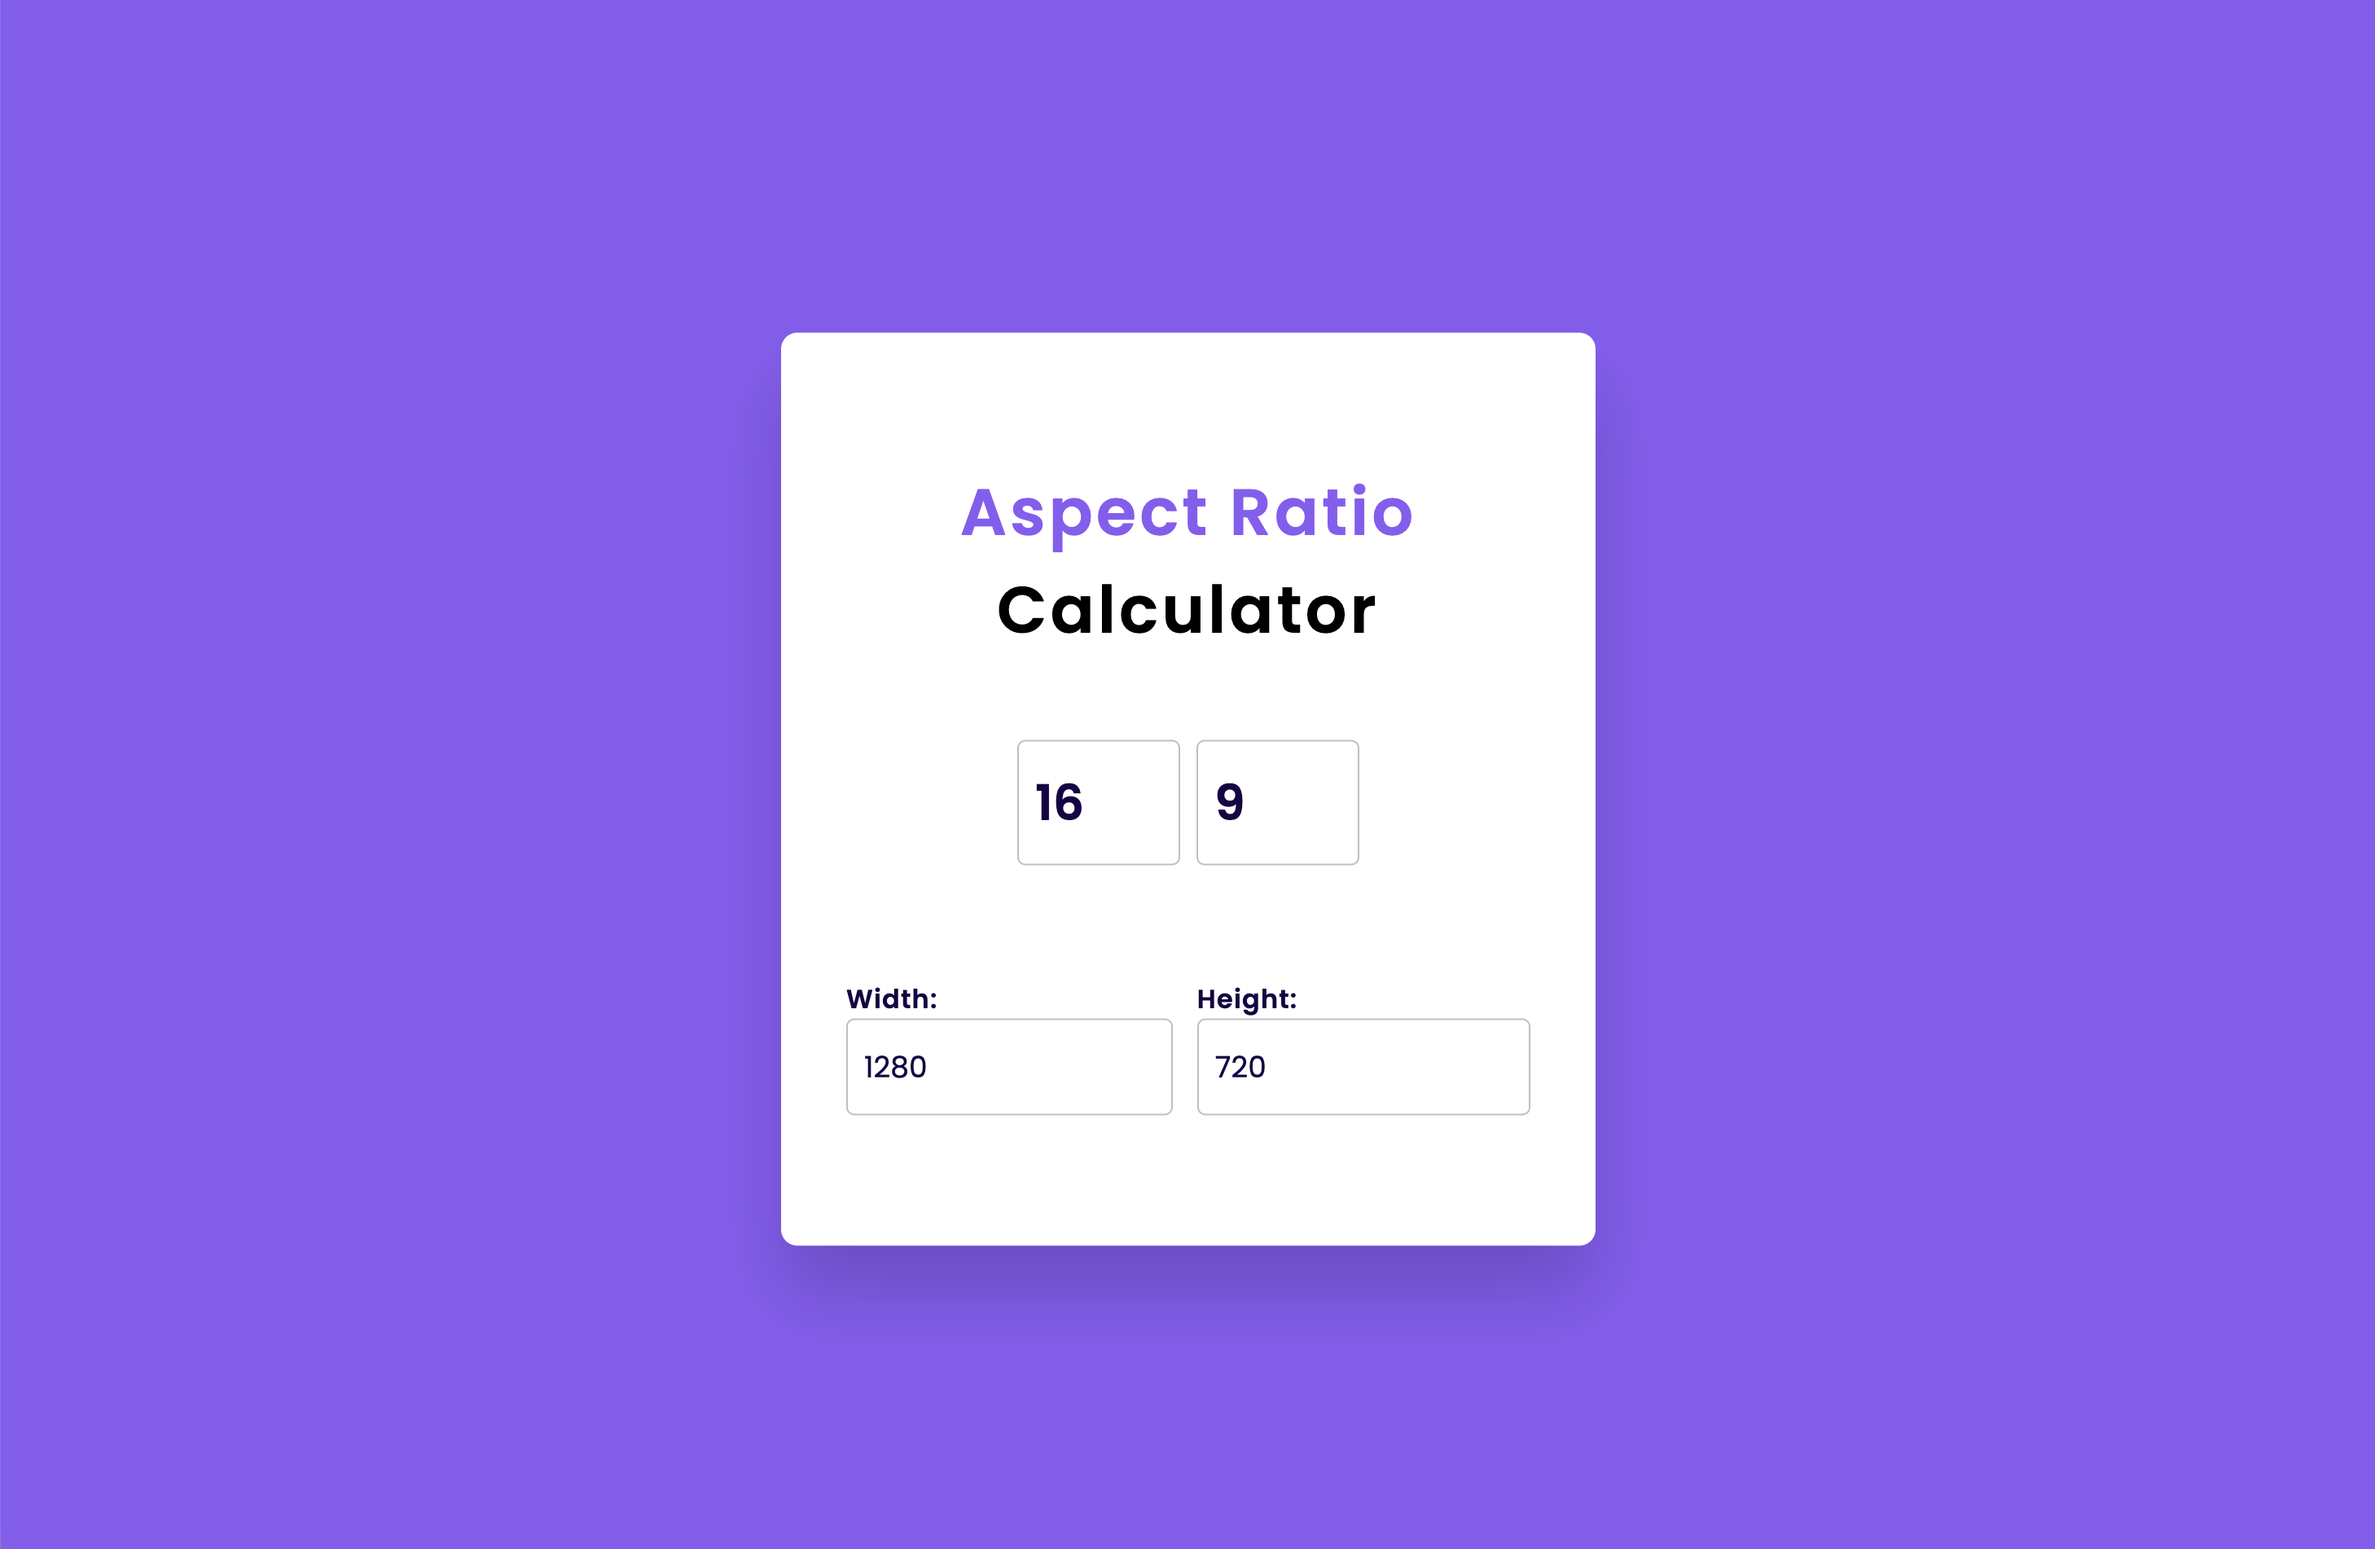
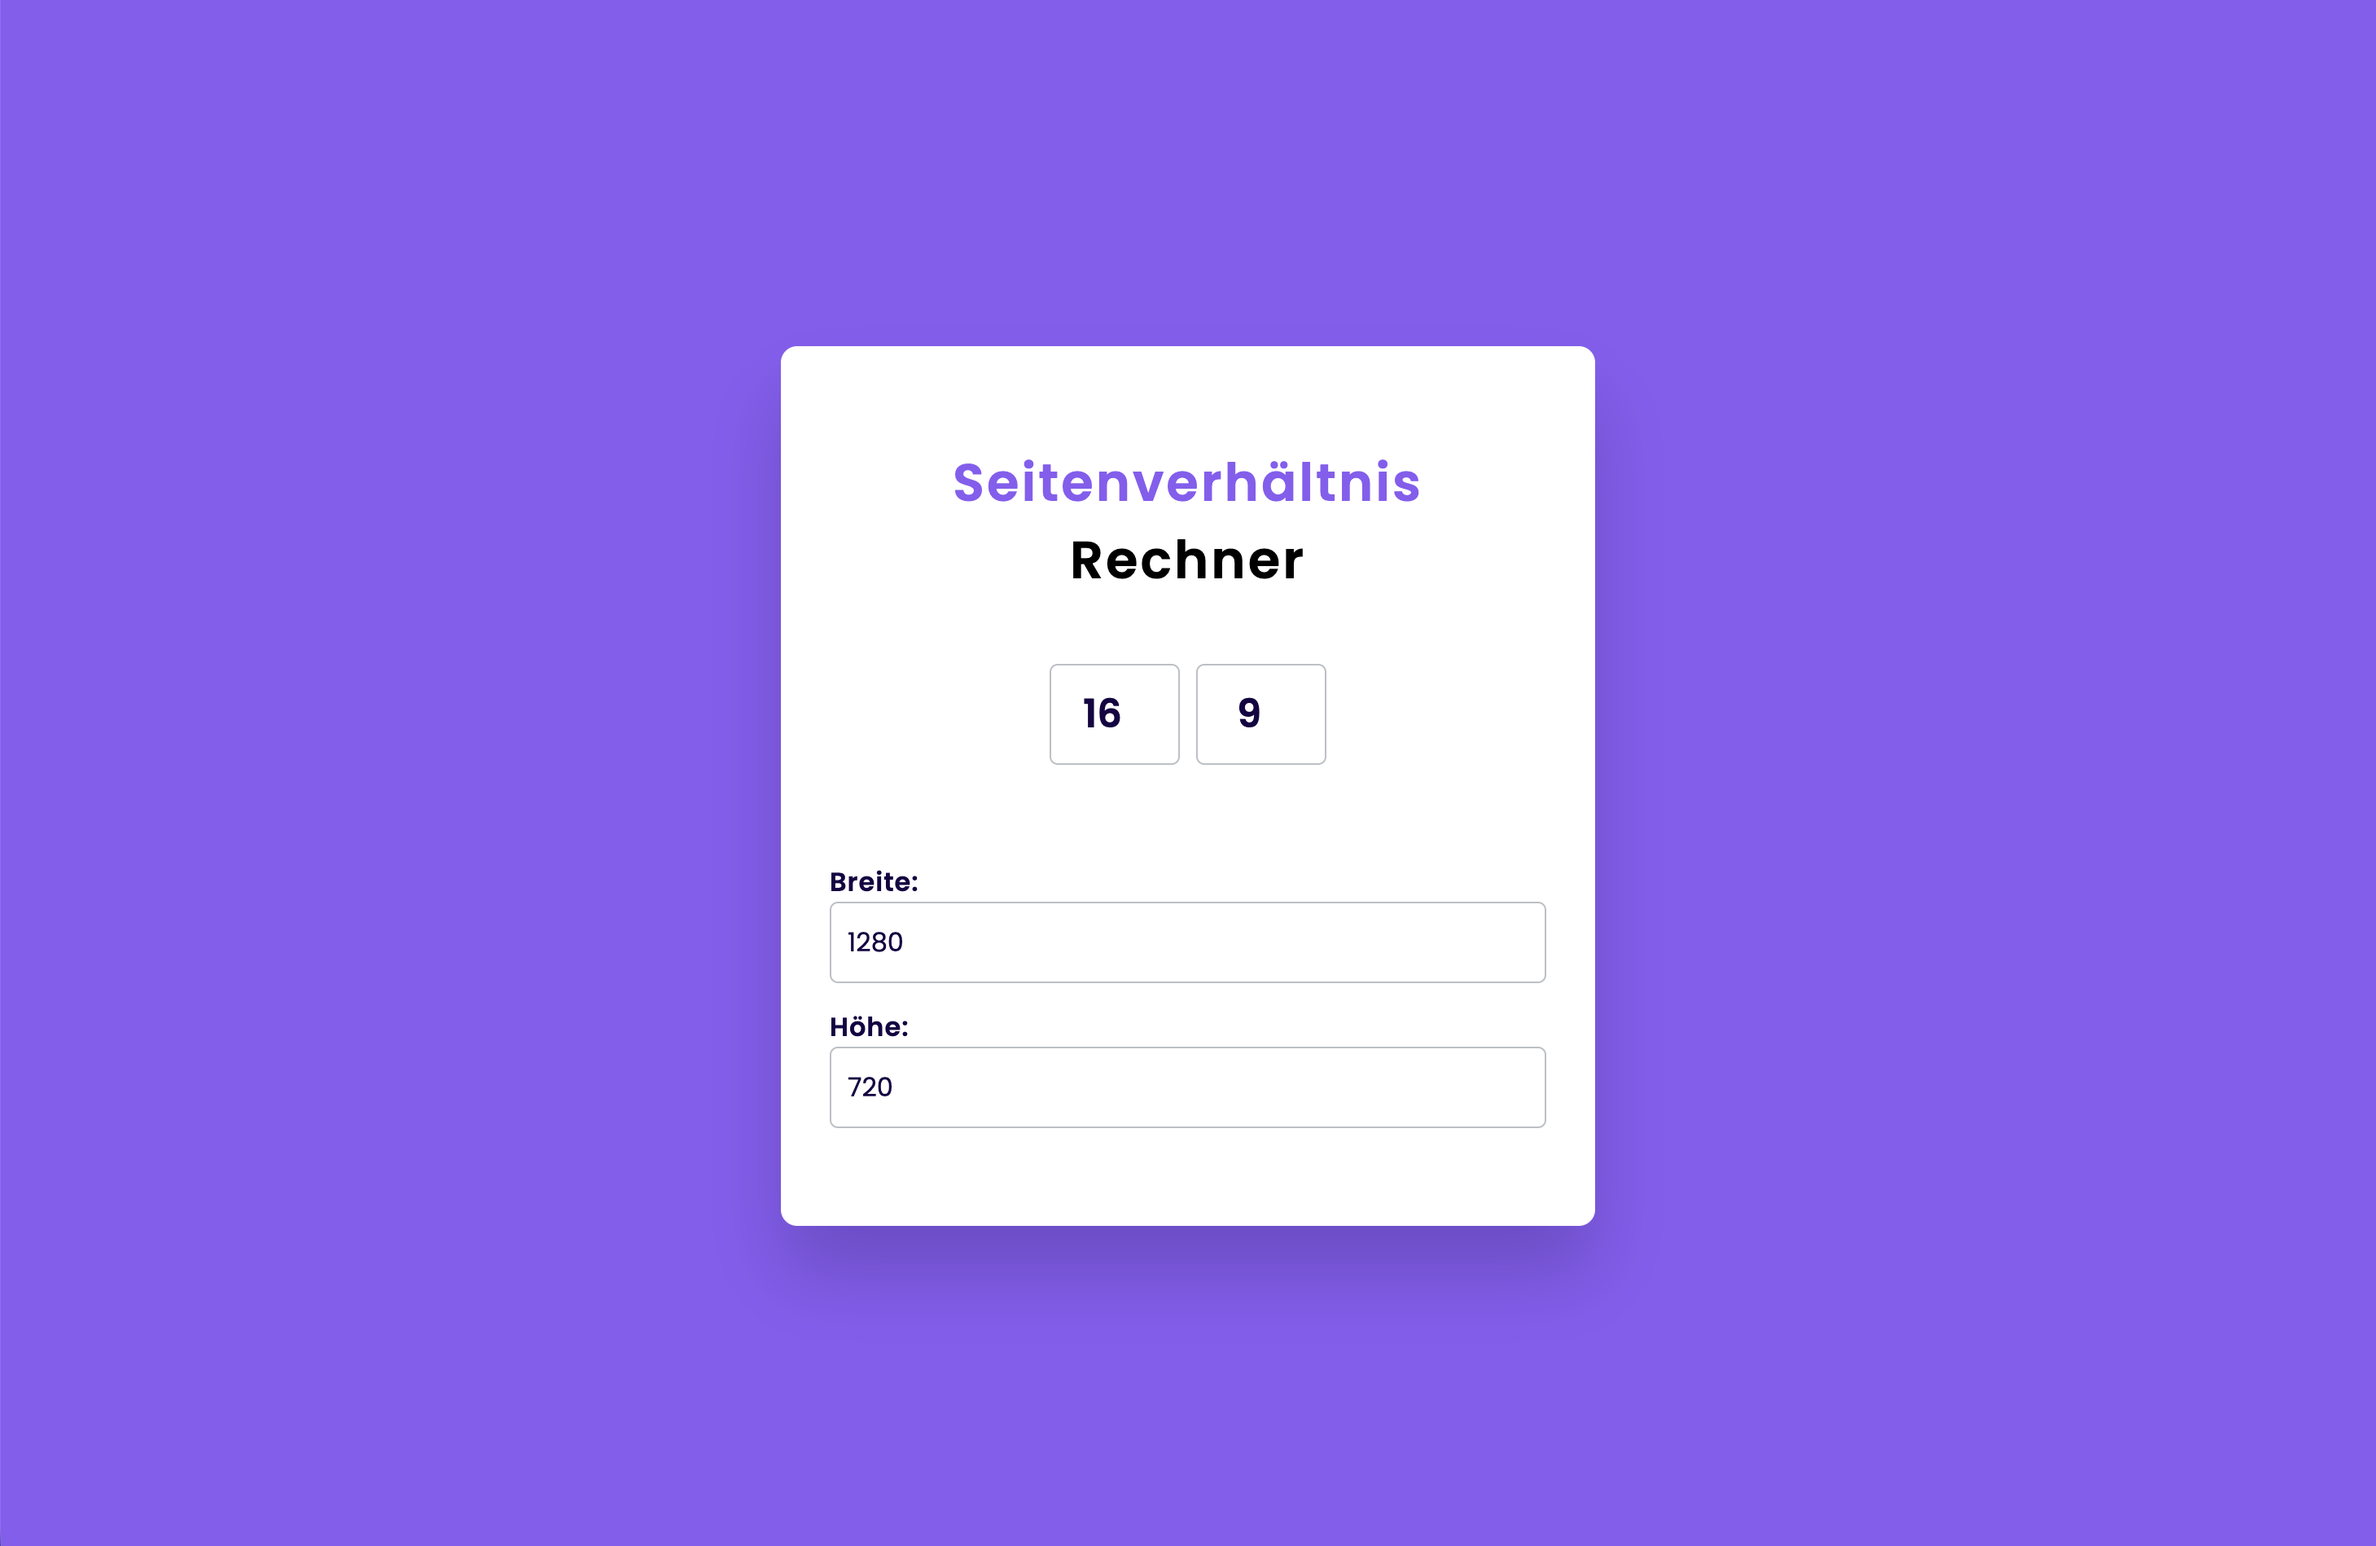
fixes22102025

diff --git a/aspectrt/style.css b/aspectrt/style.css
@@ -11,10 +11,19 @@ body{
     background-color: #895cf3;
 }
 
+.main{
+    width: 100%;
+    display: flex;
+    justify-content: center;
+    align-items: center;
+    padding: 1rem;
+}
+
 .container{
-    width: 500px;
+    width: 90%;
+    max-width: 500px;
     background: #fff;
-    padding: 80px 40px;
+    padding: 60px 30px;
     position: absolute;
     transform: translate(-50%, -50%);
     top: 50%;
@@ -25,9 +34,9 @@ body{
 
 h2{
     text-align: center;
-    font-size: 40px;
+    font-size: 32px;
     font-weight: 600;
-    letter-spacing: 2px;
+    letter-spacing: 1.5px;
 }
 
 h2 span{
@@ -36,20 +45,29 @@ h2 span{
 
 .wrapper-1{
     display: flex;
+    flex-wrap: wrap;
     align-items: center;
     justify-content: center;
-    margin: 50px 0 70px 0;
+    margin: 40px 0 60px 0;
     gap: 10px;
 }
 
 .wrapper-1 input{
-    width: 100px;
-    font-size: 30px;
+    width: 80px;
+    font-size: 24px;
     font-weight: 600;
+    text-align: center;
 }
 
+.wrapper-2, .wrapper-3{
+    display: block;
+    width: 100%;
+}
+
+
+
 input{
-    padding: 15px 10px;
+    padding: 12px 10px;
     border: 1px solid #bbc0c5;
     border-radius: 5px;
     color: #170444;
@@ -63,16 +81,41 @@ input:focus{
 label{
     color: #170444;
     font-weight: 600;
-    letter-spacing: 0.6px;
+    letter-spacing: 0.5px;
 }
 
 .box{
     display: flex;
     justify-content: space-between;
     gap: 15px;
+    flex-wrap: wrap;
 }
 
 .wrapper-2 input, .wrapper-3 input{
     width: 100%;
-    font-size: 18px;
+    font-size: 16px;
+}
+
+/* Mobile responsive adjustments */
+@media (max-width: 480px){
+    .container{
+        padding: 40px 20px;
+    }
+
+    h2{
+        font-size: 26px;
+    }
+
+    .wrapper-1 input{
+        width: 60px;
+        font-size: 20px;
+    }
+
+    input{
+        padding: 10px 8px;
+    }
+
+    .wrapper-2 input, .wrapper-3 input{
+        font-size: 14px;
+    }
 }

diff --git a/aspectrt/index.html b/aspectrt/index.html
@@ -10,24 +10,25 @@
 </head>
 
 <body>
-
-    <div class="container">
-        <h2>
-            <span>Seitenverhältnis</span>
-            Rechner
-        </h2>
-        <div class="wrapper-1">
-            <input type="number" id="ratio-width" value="16">
-            <input type="number" id="ratio-height" value="9">
-        </div>
-        <div class="box">
-            <div class="wrapper-2">
-                <label for="width">Breite:</label>
-                <input type="number" id="width" value="1280">
+    <div class="main">
+        <div class="container">
+            <h2>
+                <span>Seitenverhältnis</span>
+                Rechner
+            </h2>
+            <div class="wrapper-1">
+                <input type="number" id="ratio-width" value="16">
+                <input type="number" id="ratio-height" value="9">
             </div>
-            <div class="wrapper-3">
-                <label for="height">Höhe:</label>
-                <input type="number" id="height" value="720">
+            <div class="box">
+                <div class="wrapper-2">
+                    <label for="width">Breite:</label>
+                    <input type="number" id="width" value="1280">
+                </div>
+                <div class="wrapper-3">
+                    <label for="height">Höhe:</label>
+                    <input type="number" id="height" value="720">
+                </div>
             </div>
         </div>
     </div>
